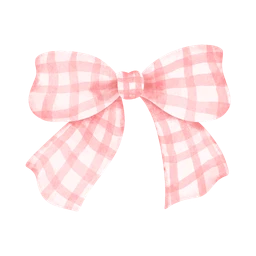
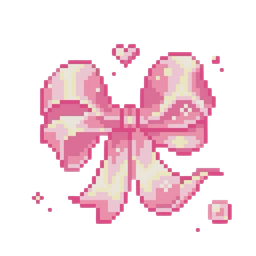
feat: swap Natalie's stickers for credited Pinterest finds
Replaces the Canva bow and bow pattern with Pinterest versions, adds corner flowers to the intro card and a kaomoji sticker to the projects heading, and credits every sticker under Natalie's footnote and in CREDITS.md. The bow pattern's pink background is removed so the header can keep tinting it.

diff --git a/src/lib/components/natalie/NatalieLayout.svelte b/src/lib/components/natalie/NatalieLayout.svelte
@@ -2,9 +2,18 @@
 	import { ArrowUpRight } from '@lucide/svelte';
 	import { dev } from '$app/env';
 	import bow from '#lib/assets/natalie/scrapbook/bow.webp';
+	import cornerFlowers from '#lib/assets/natalie/scrapbook/corner-flowers.webp';
 	import heartSticker from '#lib/assets/natalie/scrapbook/heart-sticker.webp';
+	import kaomoji from '#lib/assets/natalie/scrapbook/kaomoji.webp';
 	import ExternalLink from '#lib/components/shared/ExternalLink.svelte';
-	import { art, likes, natalieFootnote, profile, visibleProjects } from '#lib/content/index.ts';
+	import {
+		art,
+		likes,
+		natalieFootnote,
+		profile,
+		stickerCredits,
+		visibleProjects
+	} from '#lib/content/index.ts';
 	import ArtGallery from './ArtGallery.svelte';
 	import NatalieHeading from './NatalieHeading.svelte';
 	import ScrapCard from './ScrapCard.svelte';
@@ -48,6 +57,12 @@
 				{/if}
 				<p class="text-lg leading-relaxed">{profile.natalie.intro}</p>
 			</div>
+			<img
+				src={cornerFlowers}
+				alt=""
+				data-intro="heart"
+				class="pointer-events-none absolute -right-4 -bottom-4 w-24 select-none sm:w-28"
+			/>
 		</ScrapCard>
 	</section>
 
@@ -87,7 +102,13 @@
 		</ul>
 	</section>
 
-	<section aria-labelledby="natalie-projects" class="space-y-6">
+	<section aria-labelledby="natalie-projects" class="relative space-y-6">
+		<img
+			src={kaomoji}
+			alt=""
+			data-intro="heart"
+			class="pointer-events-none absolute -top-10 right-0 w-32 -rotate-3 select-none sm:w-36"
+		/>
 		<NatalieHeading id="natalie-projects" text="things i made (or broke)" />
 		<ul class="grid gap-7 sm:grid-cols-2">
 			{#each visibleProjects as project, i (project.slug)}
@@ -126,10 +147,20 @@
 		</ul>
 	</section>
 
-	<p class="text-sm text-muted">
-		<span aria-hidden="true">* </span><ExternalLink
-			class="text-link underline"
-			href={natalieFootnote.href}>{natalieFootnote.text}</ExternalLink
-		>
-	</p>
+	<div class="space-y-1 text-sm text-muted">
+		<p>
+			<span aria-hidden="true">* </span><ExternalLink
+				class="text-link underline"
+				href={natalieFootnote.href}>{natalieFootnote.text}</ExternalLink
+			>
+		</p>
+		<p class="text-xs">
+			stickers found on pinterest:
+			{#each stickerCredits as credit, i (credit.href)}
+				<ExternalLink class="underline hover:text-ink" href={credit.href}
+					>{credit.label}</ExternalLink
+				>{i < stickerCredits.length - 1 ? ', ' : ''}
+			{/each}
+		</p>
+	</div>
 </div>

diff --git a/src/lib/content/credits.ts b/src/lib/content/credits.ts
@@ -4,3 +4,12 @@ export const sonoBisqueDoll = {
 	owner: 'Shinichi Fukuda / Square Enix',
 	href: 'https://bisquedoll-anime.com/'
 };
+
+/** Pinterest pins for the scrapbook stickers on Natalie's side, listed under her footnote. */
+export const stickerCredits = [
+	{ label: 'bow', href: 'https://ph.pinterest.com/pin/1090293391087331486/' },
+	{ label: 'bow pattern', href: 'https://ph.pinterest.com/pin/5066618331134545/' },
+	{ label: 'winged heart', href: 'https://ph.pinterest.com/pin/1003036148271010681/' },
+	{ label: 'flowers', href: 'https://ph.pinterest.com/pin/386183736822334514/' },
+	{ label: 'kaomoji', href: 'https://ph.pinterest.com/pin/1104859721112173644/' }
+];

diff --git a/src/app.css b/src/app.css
@@ -193,12 +193,12 @@
 		z-index: -1;
 		pointer-events: none;
 		background-color: var(--accent);
-		mask: url('./lib/assets/natalie/scrapbook/bow-pattern.webp') 0 0 / 120px;
-		opacity: 0.85;
+		mask: url('./lib/assets/natalie/scrapbook/bow-pattern.webp') 0 0 / 200px;
+		opacity: 0.45;
 	}
 
 	[data-theme='natalie-dark'] [data-site-header]::before {
-		opacity: 0.6;
+		opacity: 0.3;
 	}
 }
 

diff --git a/src/lib/content/index.ts b/src/lib/content/index.ts
@@ -1,5 +1,6 @@
 export * from './types.ts';
 export { art } from './art.ts';
+export { stickerCredits } from './credits.ts';
 export { currently } from './currently.ts';
 export { cvHref, education, experience, resume, skills } from './experience.ts';
 export { likes, natalieFootnote } from './likes.ts';

diff --git a/CREDITS.md b/CREDITS.md
@@ -2,12 +2,15 @@
 
 Found art used as decoration on the site.
 
-| Asset                                                | Where                              | Source                                                          |
-| ---------------------------------------------------- | ---------------------------------- | --------------------------------------------------------------- |
-| `src/lib/assets/favicon.png`, `apple-touch-icon.png` | Favicon (Frieren chibi)            | [zerochan #4678674](https://www.zerochan.net/4678674)           |
-| `src/lib/assets/natalie/scrapbook/marin-avatar.webp` | Natalie's profile picture          | Sono Bisque Doll © Shinichi Fukuda / Square Enix, via Pinterest |
-| `src/lib/assets/natalie/scrapbook/marin-wink.webp`   | Photo on the Sono Bisque Doll card | Sono Bisque Doll © Shinichi Fukuda / Square Enix, via Pinterest |
+| Asset                                                  | Where                                                        | Source                                                          |
+| ------------------------------------------------------ | ------------------------------------------------------------ | --------------------------------------------------------------- |
+| `src/lib/assets/favicon.png`, `apple-touch-icon.png`   | Favicon (Frieren chibi)                                      | [zerochan #4678674](https://www.zerochan.net/4678674)           |
+| `src/lib/assets/natalie/scrapbook/marin-avatar.webp`   | Natalie's profile picture                                    | Sono Bisque Doll © Shinichi Fukuda / Square Enix, via Pinterest |
+| `src/lib/assets/natalie/scrapbook/marin-wink.webp`     | Photo on the Sono Bisque Doll card                           | Sono Bisque Doll © Shinichi Fukuda / Square Enix, via Pinterest |
+| `src/lib/assets/natalie/scrapbook/bow.webp`            | Bow on Natalie's profile picture                             | [Pinterest](https://ph.pinterest.com/pin/1090293391087331486/)  |
+| `src/lib/assets/natalie/scrapbook/bow-pattern.webp`    | Natalie's header pattern (background removed, tinted in CSS) | [Pinterest](https://ph.pinterest.com/pin/5066618331134545/)     |
+| `src/lib/assets/natalie/scrapbook/heart-sticker.webp`  | Winged heart on "stuff i drew"                               | [Pinterest](https://ph.pinterest.com/pin/1003036148271010681/)  |
+| `src/lib/assets/natalie/scrapbook/corner-flowers.webp` | Flowers on Natalie's intro card                              | [Pinterest](https://ph.pinterest.com/pin/386183736822334514/)   |
+| `src/lib/assets/natalie/scrapbook/kaomoji.webp`        | Kaomoji on "things i made (or broke)"                        | [Pinterest](https://ph.pinterest.com/pin/1104859721112173644/)  |
 
-The scrapbook stickers (`bow.webp`, `bow-pattern.webp`, `heart-sticker.webp` in `src/lib/assets/natalie/scrapbook/`) are free elements from Canva.
-
-On the site, Marin images link to the [official anime site](https://bisquedoll-anime.com/) (`src/lib/content/credits.ts`).
+On the site, Marin images link to the [official anime site](https://bisquedoll-anime.com/), and the stickers are linked under Natalie's footnote (`src/lib/content/credits.ts`).
